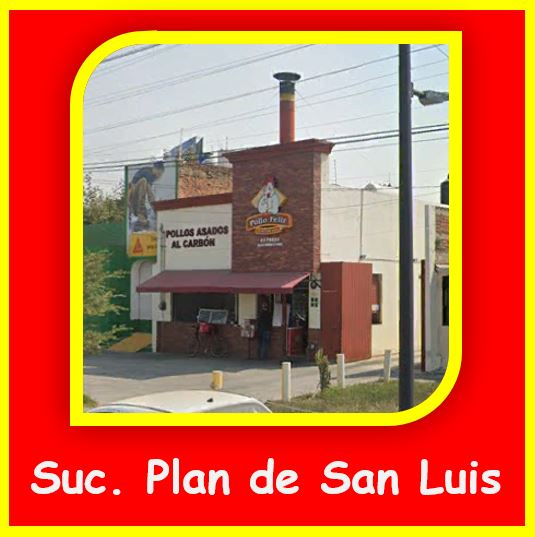
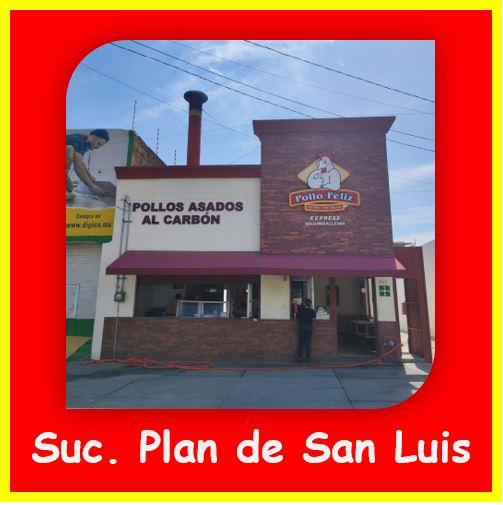
actualizacion de imagenes

diff --git a/empleado.html b/empleado.html
@@ -52,94 +52,79 @@
         </div>
         <div class="img-center">            
             <h1>Águilas</h1>
-            <img src="/Empleado mes/Águilas.JPG" width="75%" alt="Pollo Feliz GDL">
-            <hr>            
+            <img src="/Empleado mes/Águilas.JPG" width="45%" alt="Pollo Feliz GDL">
             <h1>Tapatío</h1>
-            <img src="/Empleado mes/Tapatío.JPG" width="75%" alt="Pollo Feliz GDL">
+            <img src="/Empleado mes/Tapatío.JPG" width="45%" alt="Pollo Feliz GDL">
             <hr>            
             <h1>Tlaquepaque</h1>
-            <img src="/Empleado mes/Febrero.JPG" width="75%" alt="Pollo Feliz GDL">
-            <hr>            
+            <img src="/Empleado mes/Febrero.JPG" width="45%" alt="Pollo Feliz GDL">
             <h1>Revolución</h1>
-            <img src="/Empleado mes/Febrero.JPG" width="75%" alt="Pollo Feliz GDL">
+            <img src="/Empleado mes/Febrero.JPG" width="45%" alt="Pollo Feliz GDL">
             <hr>            
             <h1>Loma Dorada</h1>
-            <img src="/Empleado mes/Febrero.JPG" width="75%" alt="Pollo Feliz GDL">
-            <hr>            
+            <img src="/Empleado mes/Febrero.JPG" width="45%" alt="Pollo Feliz GDL">
             <h1>Santa Margarita</h1>
-            <img src="/Empleado mes/Febrero.JPG" width="75%" alt="Pollo Feliz GDL">
+            <img src="/Empleado mes/Febrero.JPG" width="45%" alt="Pollo Feliz GDL">
             <hr>            
             <h1>Patria</h1>
-            <img src="/Empleado mes/Febrero.JPG" width="75%" alt="Pollo Feliz GDL">
-            <hr>            
+            <img src="/Empleado mes/Febrero.JPG" width="45%" alt="Pollo Feliz GDL">
             <h1>Independencia</h1>
-            <img src="/Empleado mes/Independencia.JPG" width="75%" alt="Pollo Feliz GDL">
+            <img src="/Empleado mes/Independencia.JPG" width="45%" alt="Pollo Feliz GDL">
             <hr>            
             <h1>Punto Oriente</h1>
-            <img src="/Empleado mes/Punto Oriente.JPG" width="75%" alt="Pollo Feliz GDL">
-            <hr>            
+            <img src="/Empleado mes/Punto Oriente.JPG" width="45%" alt="Pollo Feliz GDL">
             <h1>Tesistán</h1>
-            <img src="/Empleado mes/Febrero.JPG" width="75%" alt="Pollo Feliz GDL">
+            <img src="/Empleado mes/Febrero.JPG" width="45%" alt="Pollo Feliz GDL">
             <hr>            
             <h1>Oblatos</h1>
-            <img src="/Empleado mes/Oblatos.JPG" width="75%" alt="Pollo Feliz GDL">
-            <hr>            
+            <img src="/Empleado mes/Oblatos.JPG" width="45%" alt="Pollo Feliz GDL">
             <h1>Guadalupe</h1>
-            <img src="/Empleado mes/Febrero.JPG" width="75%" alt="Pollo Feliz GDL">
+            <img src="/Empleado mes/Febrero.JPG" width="45%" alt="Pollo Feliz GDL">
             <hr>            
             <h1>Tetlán</h1>
-            <img src="/Empleado mes/Tetlan.JPG" width="75%" alt="Pollo Feliz GDL">
-            <hr>            
+            <img src="/Empleado mes/Tetlan.JPG" width="45%" alt="Pollo Feliz GDL">
             <h1>Sauz</h1>
-            <img src="/Empleado mes/Sauz.JPG" width="75%" alt="Pollo Feliz GDL">
+            <img src="/Empleado mes/Sauz.JPG" width="45%" alt="Pollo Feliz GDL">
             <hr>            
             <h1>Santa Fe</h1>
-            <img src="/Empleado mes/Santa Fe.JPG" width="75%" alt="Pollo Feliz GDL">
-            <hr>            
+            <img src="/Empleado mes/Santa Fe.JPG" width="45%" alt="Pollo Feliz GDL">
             <h1>Tuzania</h1>
-            <img src="/Empleado mes/Tuzania.JPG" width="75%" alt="Pollo Feliz GDL">
+            <img src="/Empleado mes/Tuzania.JPG" width="45%" alt="Pollo Feliz GDL">
             <hr>            
             <h1>La Cruz</h1>
-            <img src="/Empleado mes/La Cruz.JPG" width="75%" alt="Pollo Feliz GDL">
-            <hr>            
+            <img src="/Empleado mes/La Cruz.JPG" width="45%" alt="Pollo Feliz GDL">
             <h1>Juan Pablo 2do</h1>
-            <img src="/Empleado mes/Juan Pablo 2do.JPG" width="75%" alt="Pollo Feliz GDL">
+            <img src="/Empleado mes/Juan Pablo 2do.JPG" width="45%" alt="Pollo Feliz GDL">
             <hr>            
             <h1>Box Market</h1>
-            <img src="/Empleado mes/Box Market.JPG" width="75%" alt="Pollo Feliz GDL">
-            <hr>            
+            <img src="/Empleado mes/Box Market.JPG" width="45%" alt="Pollo Feliz GDL">
             <h1>Plan de San Luis</h1>
-            <img src="/Empleado mes/Febrero.JPG" width="75%" alt="Pollo Feliz GDL">
+            <img src="/Empleado mes/Plan de San Luis.JPG" width="45%" alt="Pollo Feliz GDL">
             <hr>            
             <h1>Autódromo</h1>
-            <img src="/Empleado mes/Autodromo.JPG" width="75%" alt="Pollo Feliz GDL">
-            <hr>            
+            <img src="/Empleado mes/Autodromo.JPG" width="45%" alt="Pollo Feliz GDL">
             <h1>Monumental</h1>
-            <img src="/Empleado mes/Febrero.JPG" width="75%" alt="Pollo Feliz GDL">
+            <img src="/Empleado mes/Febrero.JPG" width="45%" alt="Pollo Feliz GDL">
             <hr>            
             <h1>16 de septiembre</h1>
-            <img src="/Empleado mes/16 de septiembre.JPG" width="75%" alt="Pollo Feliz GDL">
-            <hr>            
+            <img src="/Empleado mes/16 de septiembre.JPG" width="45%" alt="Pollo Feliz GDL">
             <h1>El Rosario</h1>
-            <img src="/Empleado mes/El Rosario.JPG" width="75%" alt="Pollo Feliz GDL">
+            <img src="/Empleado mes/El Rosario.JPG" width="45%" alt="Pollo Feliz GDL">
             <hr>
             <h1>Condoplaza</h1>
-            <img src="/Empleado mes/Febrero.JPG" width="75%" alt="Pollo Feliz GDL">
-            <hr>            
+            <img src="/Empleado mes/Febrero.JPG" width="45%" alt="Pollo Feliz GDL">
             <h1>Ávila Camacho</h1>
-            <img src="/Empleado mes/Avila camacho.JPG" width="75%" alt="Pollo Feliz GDL">
+            <img src="/Empleado mes/Avila camacho.JPG" width="45%" alt="Pollo Feliz GDL">
             <hr>            
             <h1>Magnolias</h1>
-            <img src="/Empleado mes/Febrero.JPG" width="75%" alt="Pollo Feliz GDL">
-            <hr>            
+            <img src="/Empleado mes/Febrero.JPG" width="45%" alt="Pollo Feliz GDL">
             <h1>El Castillo</h1>
-            <img src="/Empleado mes/El Castillo.JPG" width="75%" alt="Pollo Feliz GDL">
+            <img src="/Empleado mes/El Castillo.JPG" width="45%" alt="Pollo Feliz GDL">
             <hr>            
             <h1>Lomas del Gallo</h1>
-            <img src="/Empleado mes/Febrero.JPG" width="75%" alt="Pollo Feliz GDL">
-            <hr>            
+            <img src="/Empleado mes/Febrero.JPG" width="45%" alt="Pollo Feliz GDL">
             <h1>Torre Trimera</h1>
-            <img src="/Empleado mes/Torre Trimera.JPG" width="75%" alt="Pollo Feliz GDL">
+            <img src="/Empleado mes/Torre Trimera.JPG" width="45%" alt="Pollo Feliz GDL">
             <hr>            
         </div>
         <div class="img-center">
